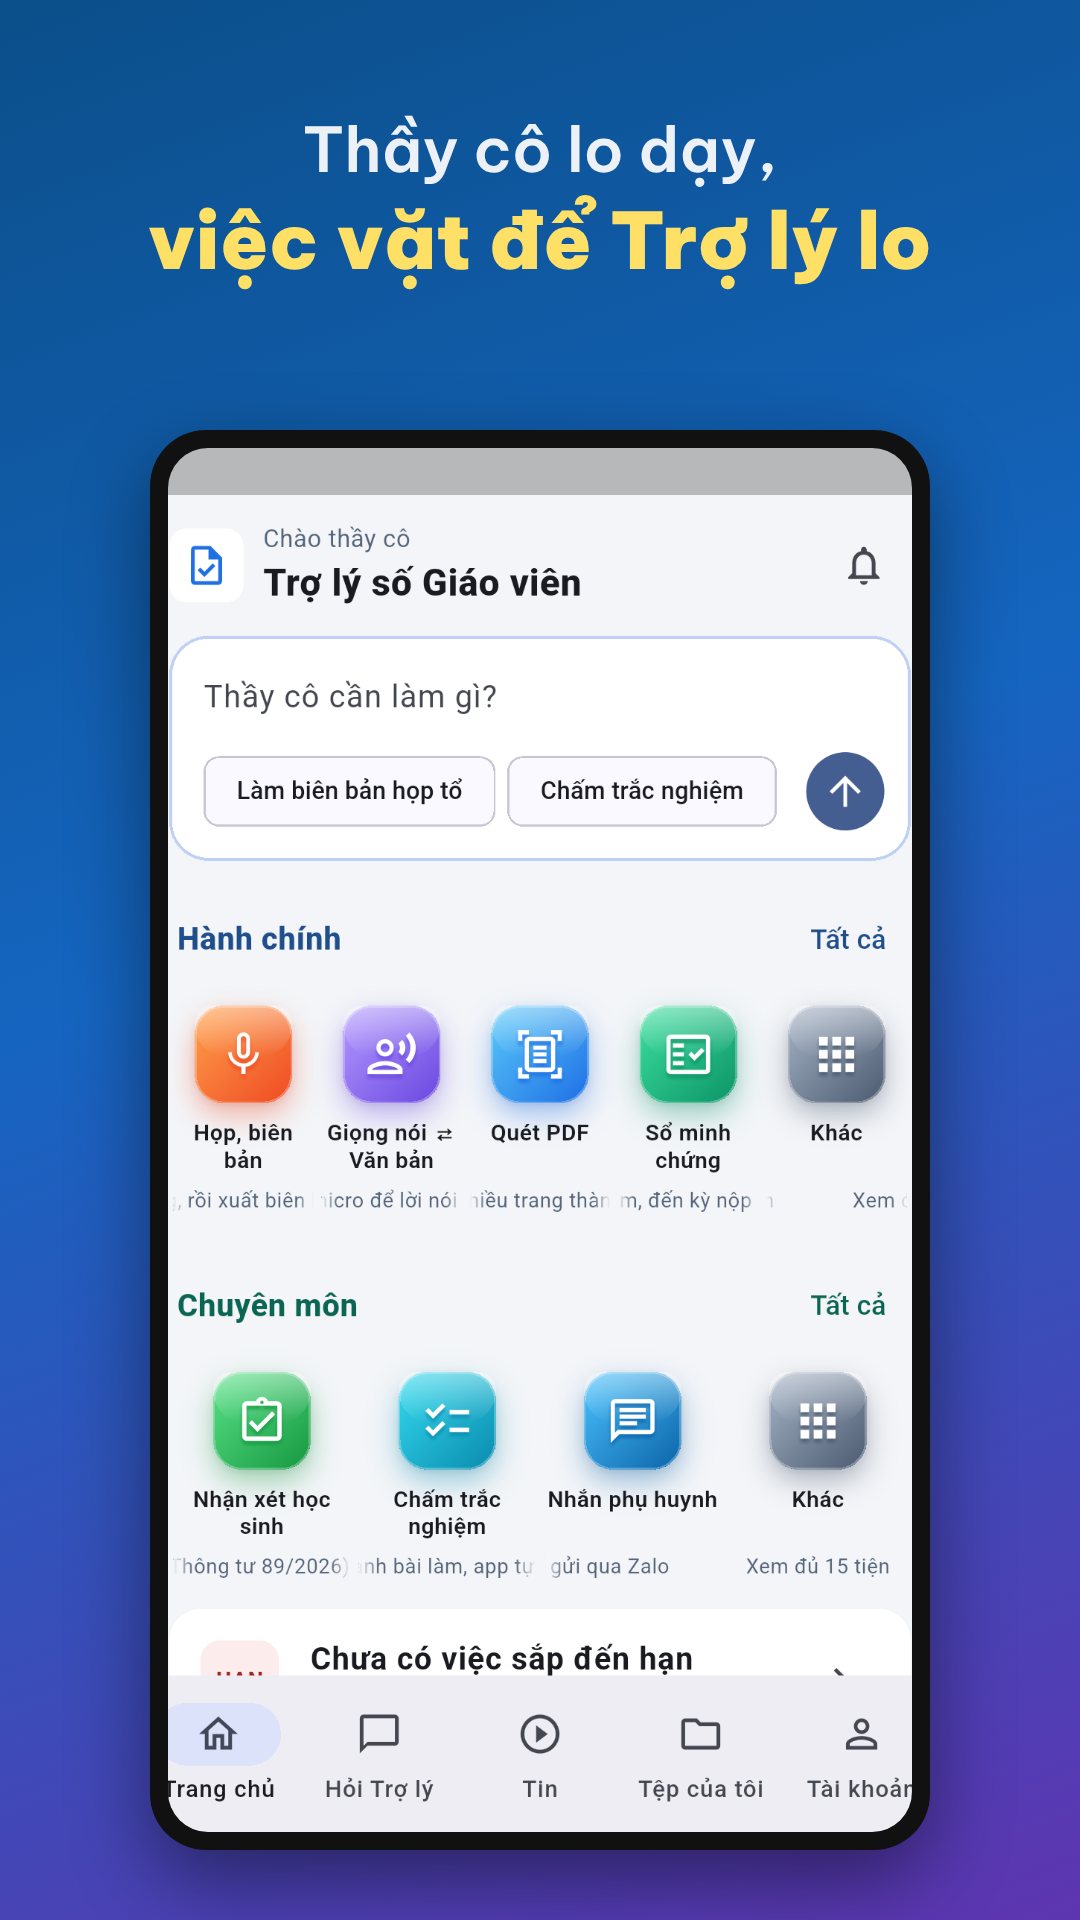
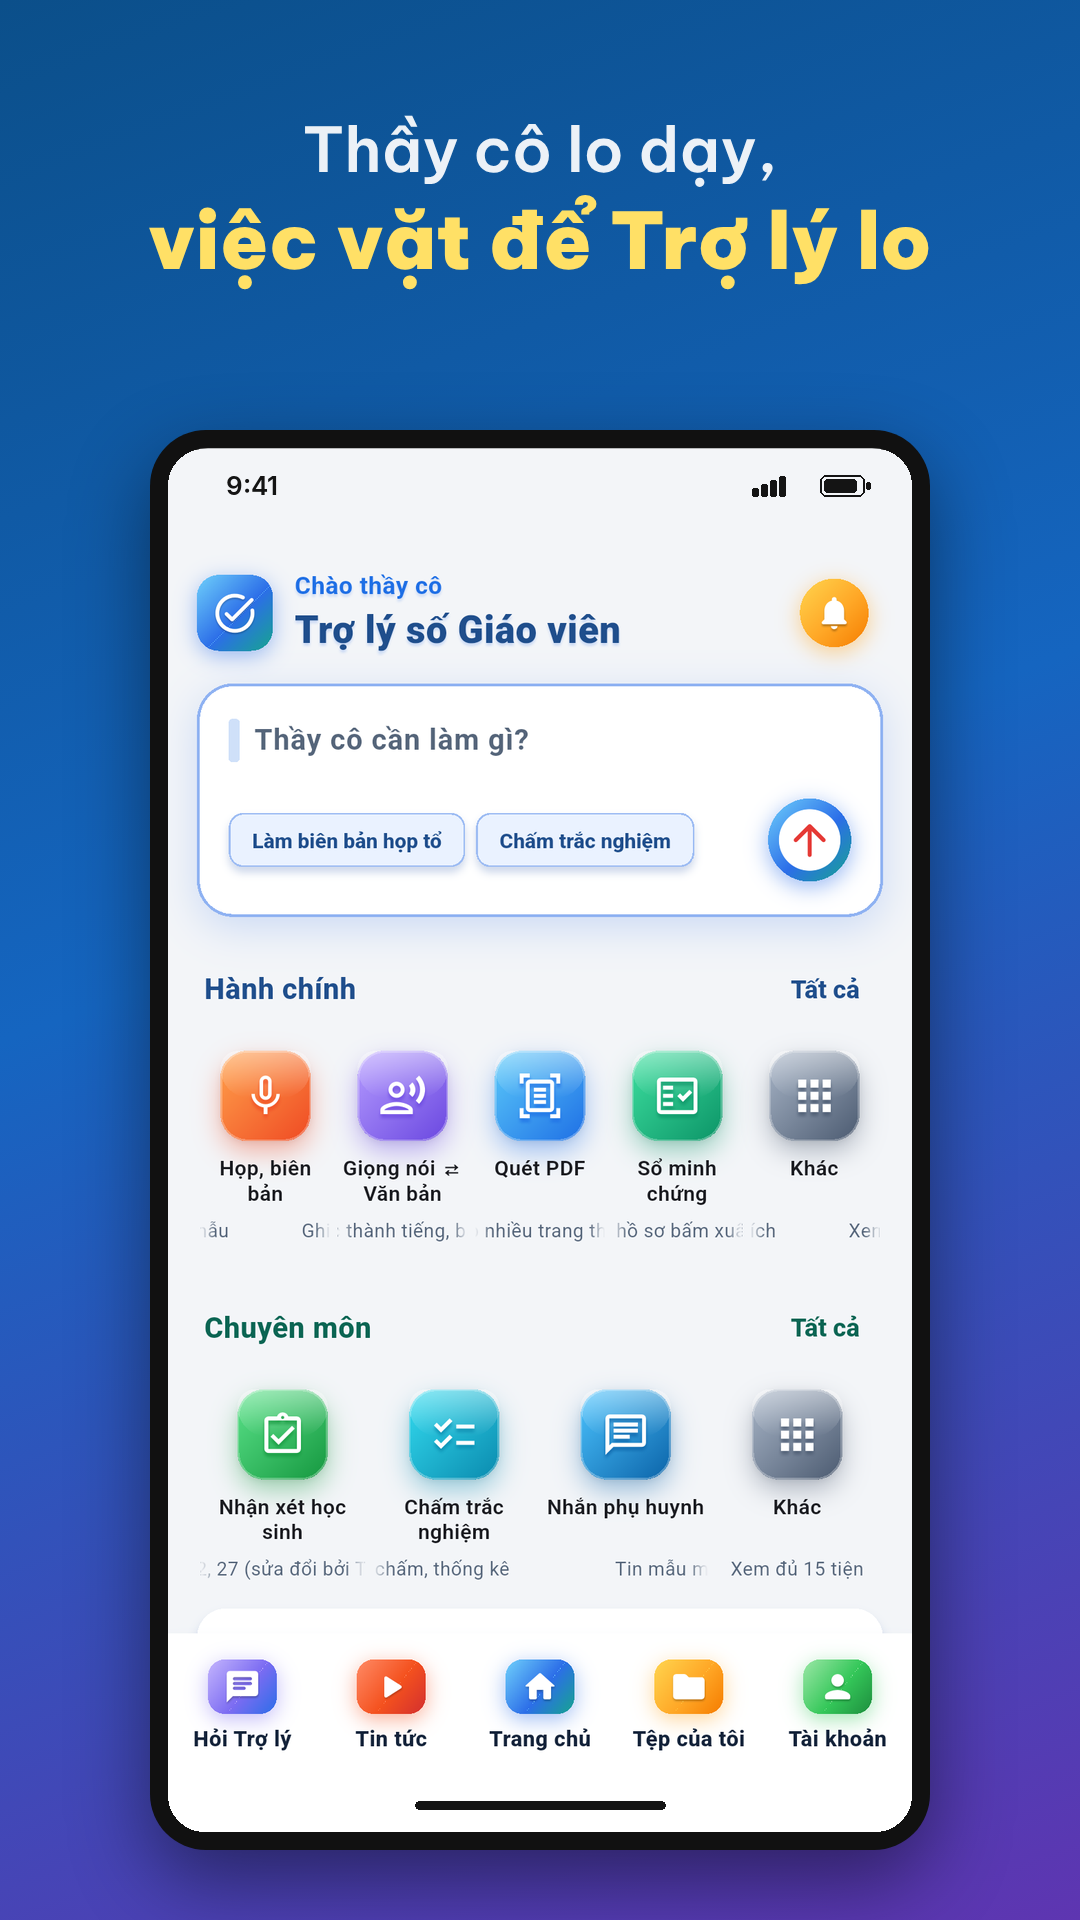
Ảnh cửa hàng: iPhone 6,3 inch, iPad 13 inch, ảnh số 1 trang chủ 0.4.0; tập lệnh dựng ảnh
Claude-Session: https://claude.ai/code/session_013BLcfAyQFiQNGLSok19HXS

Changed region(s): [[0.1528, 0.2188, 0.8556, 0.9688], [0.6722, 0.625, 0.8556, 0.9375]]

diff --git a/tool/anh_cua_hang/dung_anh_ipad.py b/tool/anh_cua_hang/dung_anh_ipad.py
@@ -1,0 +1,57 @@
+"""Dựng ảnh App Store iPad 13 inch (2064×2752) từ ảnh chụp app trên máy giả lập iPad Pro 13 inch.
+
+Nền chuyển màu lấy theo ảnh điện thoại cùng số (mép trái, mép phải), tiêu đề hai dòng (trắng, vàng)
+phông Be Vietnam Pro, ảnh chụp đặt trong khung máy tính bảng viền tối.
+Chạy: python3 dung_anh_ipad.py anh_chup.png man_hinh_0X.png "Dòng 1" "Dòng 2" ra.png
+"""
+import sys
+import numpy as np
+from PIL import Image, ImageDraw, ImageFont, ImageFilter
+
+chup, mau, d1, d2, ra = sys.argv[1:6]
+FONT = '/home/claude/fonts/BeVietnamPro-ExtraBold.ttf'
+W, H = 2064, 2752
+
+# nền: nội suy ngang giữa cột mép trái và cột mép phải của ảnh điện thoại
+m = np.asarray(Image.open(mau).convert('RGB')).astype(float)
+trai, phai = m[:, 4, :], m[:, -5, :]
+ys = np.linspace(0, m.shape[0] - 1, H).astype(int)
+t = np.linspace(0, 1, W)[None, :, None]
+nen = trai[ys][:, None, :] * (1 - t) + phai[ys][:, None, :] * t
+anh = Image.fromarray(nen.clip(0, 255).astype(np.uint8)).filter(ImageFilter.GaussianBlur(6))
+d = ImageDraw.Draw(anh)
+
+# tiêu đề
+f1 = ImageFont.truetype('/home/claude/fonts/BeVietnamPro-SemiBold.ttf', 104)
+f2 = ImageFont.truetype(FONT, 126)
+d.text((W // 2, 245), d1, font=f1, fill=(255, 255, 255), anchor='mm')
+d.text((W // 2, 395), d2, font=f2, fill=(255, 224, 102), anchor='mm')
+
+# khung máy tính bảng
+HS = 2000
+s = Image.open(chup).convert('RGB')
+# thanh trạng thái kiểu iPad ở hai mép (vùng nền ngoài cột nội dung): giờ bên trái, pin bên phải
+ds = ImageDraw.Draw(s)
+k = (30, 34, 42)
+ds.text((70, 27), '9:41', font=ImageFont.truetype('/home/claude/fonts/BeVietnamPro-SemiBold.ttf', 30), fill=k, anchor='lm')
+bx = s.width - 120
+ds.rounded_rectangle((bx, 15, bx + 52, 39), radius=7, outline=k, width=3)
+ds.rounded_rectangle((bx + 5, 20, bx + 42, 34), radius=3, fill=k)
+ds.rounded_rectangle((bx + 55, 23, bx + 59, 31), radius=2, fill=k)
+WS = round(HS * s.width / s.height)
+s = s.resize((WS, HS), Image.LANCZOS)
+VIEN = 38
+fw, fh = WS + 2 * VIEN, HS + 2 * VIEN
+x0, y0 = (W - fw) // 2, 600
+bong = Image.new('L', (W, H), 0)
+ImageDraw.Draw(bong).rounded_rectangle((x0, y0 + 30, x0 + fw, y0 + fh + 30), radius=100, fill=110)
+bong = bong.filter(ImageFilter.GaussianBlur(40))
+anh.paste(Image.new('RGB', (W, H), (8, 14, 40)), (0, 0), bong)
+d = ImageDraw.Draw(anh)
+d.rounded_rectangle((x0, y0, x0 + fw, y0 + fh), radius=100, fill=(18, 20, 24))
+d.rounded_rectangle((x0 + 3, y0 + 3, x0 + fw - 3, y0 + fh - 3), radius=97, outline=(70, 74, 82), width=3)
+mask = Image.new('L', (WS, HS), 0)
+ImageDraw.Draw(mask).rounded_rectangle((0, 0, WS - 1, HS - 1), radius=62, fill=255)
+anh.paste(s, (x0 + VIEN, y0 + VIEN), mask)
+assert anh.size == (W, H)
+anh.save(ra, optimize=True)

diff --git a/tool/anh_cua_hang/ghep_anh1.py b/tool/anh_cua_hang/ghep_anh1.py
@@ -1,0 +1,31 @@
+import sys
+from PIL import Image, ImageDraw, ImageFont
+nen, chup, ra = sys.argv[1:4]
+base = Image.open(nen).convert('RGB')
+shot = Image.open(chup).convert('RGB')
+x0, y0, x1, y1 = 168, 449, 912, 1832   # vùng màn hình trong khung máy
+W, H = x1 - x0, y1 - y0
+s = shot.resize((W, round(shot.height * W / shot.width)), Image.LANCZOS)
+du = H - s.height
+tren = 50                                 # thanh trạng thái
+duoi = du - tren                          # vạch vuốt về màn hình chính
+man = Image.new('RGB', (W, H), shot.getpixel((5, 5)))
+man.paste(s, (0, tren))
+d = ImageDraw.Draw(man)
+d.rectangle((0, tren + s.height, W, H), fill=shot.getpixel((540, shot.height - 3)))
+# giờ và pin, kiểu thanh trạng thái iPhone
+f = ImageFont.truetype('/usr/share/fonts/opentype/inter/Inter-SemiBold.otf', 26)
+d.text((58, 36), '9:41', font=f, fill=(20, 20, 20), anchor='lm')
+bx, by = W - 92, 26
+d.rounded_rectangle((bx, by, bx + 44, by + 21), radius=6, outline=(20, 20, 20), width=2)
+d.rounded_rectangle((bx + 4, by + 4, bx + 36, by + 17), radius=3, fill=(20, 20, 20))
+d.rounded_rectangle((bx + 46, by + 7, bx + 50, by + 14), radius=2, fill=(20, 20, 20))
+for i in range(4):                        # vạch sóng
+    h = 8 + i * 4
+    d.rounded_rectangle((W - 160 + i * 9, by + 21 - h, W - 154 + i * 9, by + 21), radius=2, fill=(20, 20, 20))
+pw = 250
+d.rounded_rectangle(((W - pw) // 2, H - duoi // 2 - 4, (W + pw) // 2, H - duoi // 2 + 4), radius=4, fill=(20, 20, 20))
+mask = Image.new('L', (W, H), 0)
+ImageDraw.Draw(mask).rounded_rectangle((0, 0, W - 1, H - 1), radius=36, fill=255)
+base.paste(man, (x0, y0), mask)
+base.save(ra, optimize=True)

diff --git a/tool/anh_cua_hang/tao_anh_co.py b/tool/anh_cua_hang/tao_anh_co.py
@@ -1,0 +1,24 @@
+import sys, json
+from PIL import Image
+P = [[91,313,405],[91,309,405],[88,313,405],[91,293,405],[96,309,405],[89,313,405],[83,313,405],[99,309,405]]
+srcs = ['/home/claude/anh/man_hinh_01_moi.png'] + [f'/home/claude/repo/tlgv/cua-hang/anh/man_hinh_0{i}.png' for i in range(2, 9)]
+W, H, ten = int(sys.argv[1]), int(sys.argv[2]), sys.argv[3]
+fp = []
+for i, (src, (a, b, c)) in enumerate(zip(srcs, P), 1):
+    img = Image.open(src).convert('RGB'); w, h = img.size
+    s = W / w; y = lambda v: round(v * s)
+    extra = H - y(h); e1 = int(extra * 0.5); e2 = extra - e1
+    big = img.resize((W, y(h)), Image.LANCZOS)
+    parts = []
+    for y0, y1, add in [(0, a, e1), (a, b, 0), (b, c, e2), (c, h, 0)]:
+        p = big.crop((0, y(y0), W, y(y1)))
+        if add: p = p.resize((W, p.height + add), Image.BICUBIC)
+        parts.append(p)
+    out = Image.new('RGB', (W, H)); yy = 0
+    for p in parts: out.paste(p, (0, yy)); yy += p.height
+    assert yy == H
+    out.save(f'/mnt/user-data/outputs/anh_iphone/{ten}_{i:02d}.png', optimize=True)
+    sm = out.resize((4, 12), Image.BOX)
+    fp.append([list(sm.getpixel((x, r))) for r in range(12) for x in range(4)])
+json.dump(fp, open(f'/home/claude/anh/fp_{ten}.json', 'w'))
+print('xong', ten)

diff --git a/tool/anh_cua_hang/README.md b/tool/anh_cua_hang/README.md
@@ -1,0 +1,6 @@
+# Dựng ảnh cửa hàng (24/11/2026)
+
+- `ghep_anh1.py`: ghép ảnh chụp trang chủ mới (nhánh anh-xem-app, xem_95_thanh_duoi.png) vào khung máy của `cua-hang/anh/man_hinh_01.png`, thêm thanh trạng thái, vạch vuốt.
+- `tao_anh_co.py W H ten`: dựng 8 ảnh iPhone từ 8 ảnh 1080×1920 (giãn hai dải nền). App Store bắt buộc cỡ 6,3 inch: `1206 2622 iphone_63` → `cua-hang/anh-iphone/`. Cỡ 6,9 inch (1320×2868) là tùy chọn.
+- `dung_anh_ipad.py chup.png man_hinh_0X.png "Dòng 1" "Dòng 2" ra.png`: dựng ảnh iPad 13 inch 2064×2752 từ ảnh chụp ở cỡ iPad (workflow `xem_ipad.yml`, nhánh anh-xem-ipad) → `cua-hang/anh-ipad/`. Phông Be Vietnam Pro (Google Fonts).
+- Đường dẫn trong các tập lệnh là đường dẫn máy dựng ảnh của Claude; sửa lại khi chạy chỗ khác.
